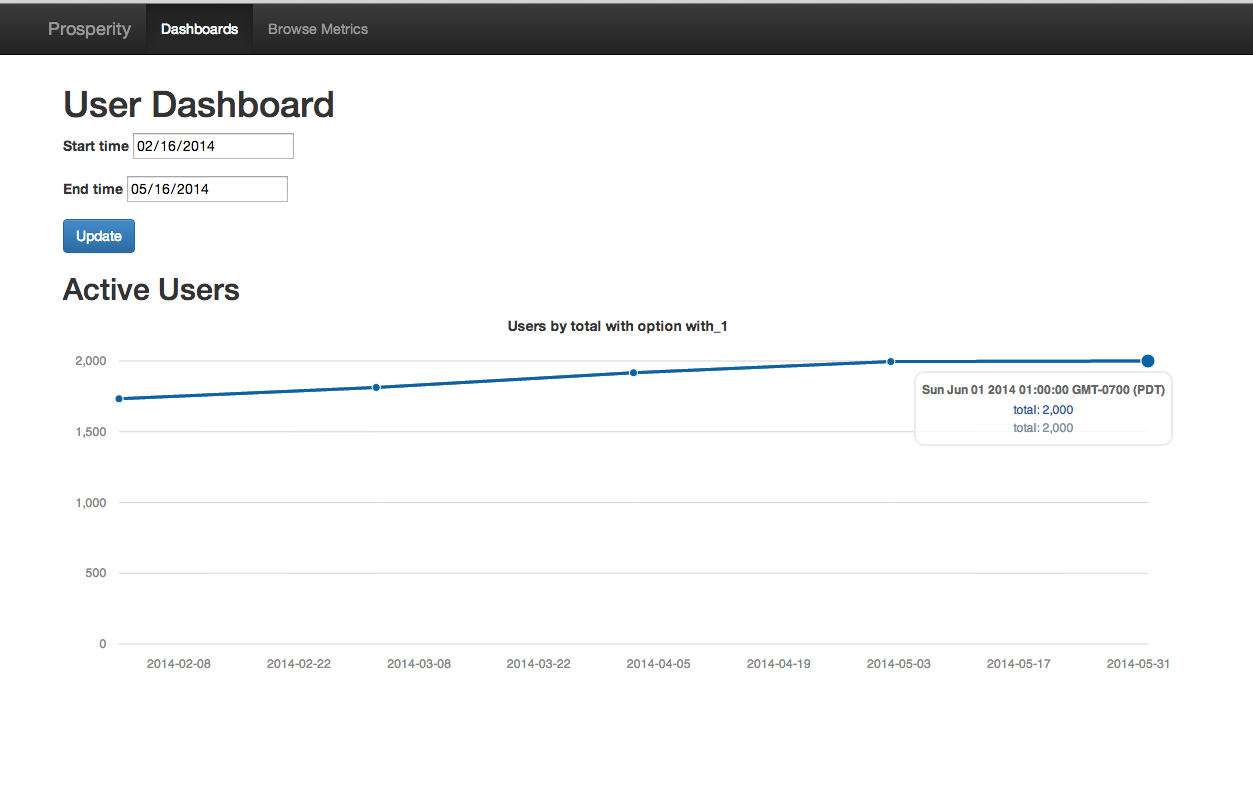
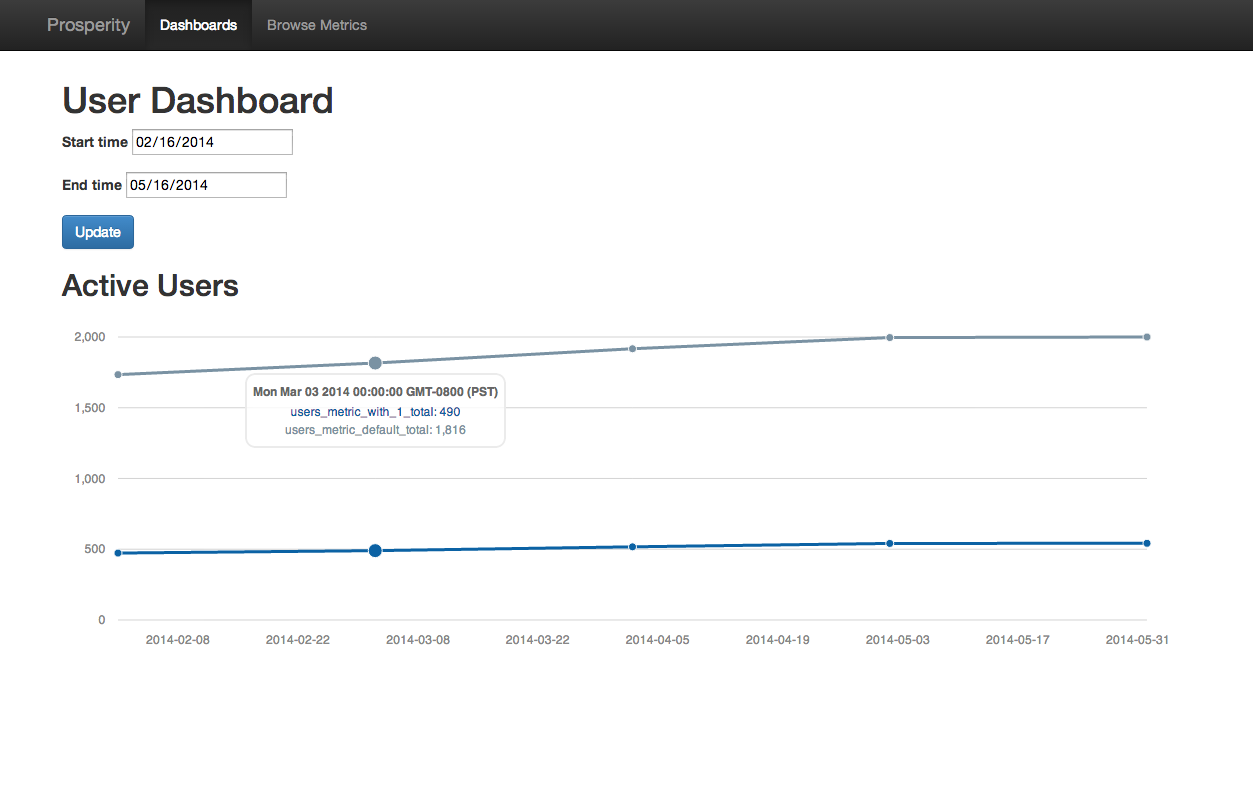
Fix bug preventing the dashboard from showing two metrics with the same     extractor

diff --git a/lib/prosperity/extractors/base.rb b/lib/prosperity/extractors/base.rb
@@ -1,5 +1,5 @@
 module Prosperity
-  class Extractors::Base 
+  class Extractors::Base
     attr_reader :metric, :start_time, :end_time, :period, :option
 
     def initialize(metric, option, start_time, end_time, period)
@@ -13,6 +13,10 @@ module Prosperity
 
     def key
       self.class.key
+    end
+
+    def uid
+      "#{@metric.to_s.underscore}_#{@option}_#{key}"
     end
 
     def label

diff --git a/app/controllers/prosperity/metrics_controller.rb b/app/controllers/prosperity/metrics_controller.rb
@@ -48,6 +48,7 @@ module Prosperity
       json = {
         data: ext.to_a,
         key: ext.key,
+        uid: ext.uid,
         label: ext.label,
         start_time: p.actual_start_time(start_time).iso8601,
         end_time: p.actual_end_time(end_time).iso8601,

diff --git a/lib/prosperity/metrics/option.rb b/lib/prosperity/metrics/option.rb
@@ -6,6 +6,10 @@ module Prosperity
       @name = name
       @block = block
     end
+
+    def to_s
+      name
+    end
   end
 end
 
